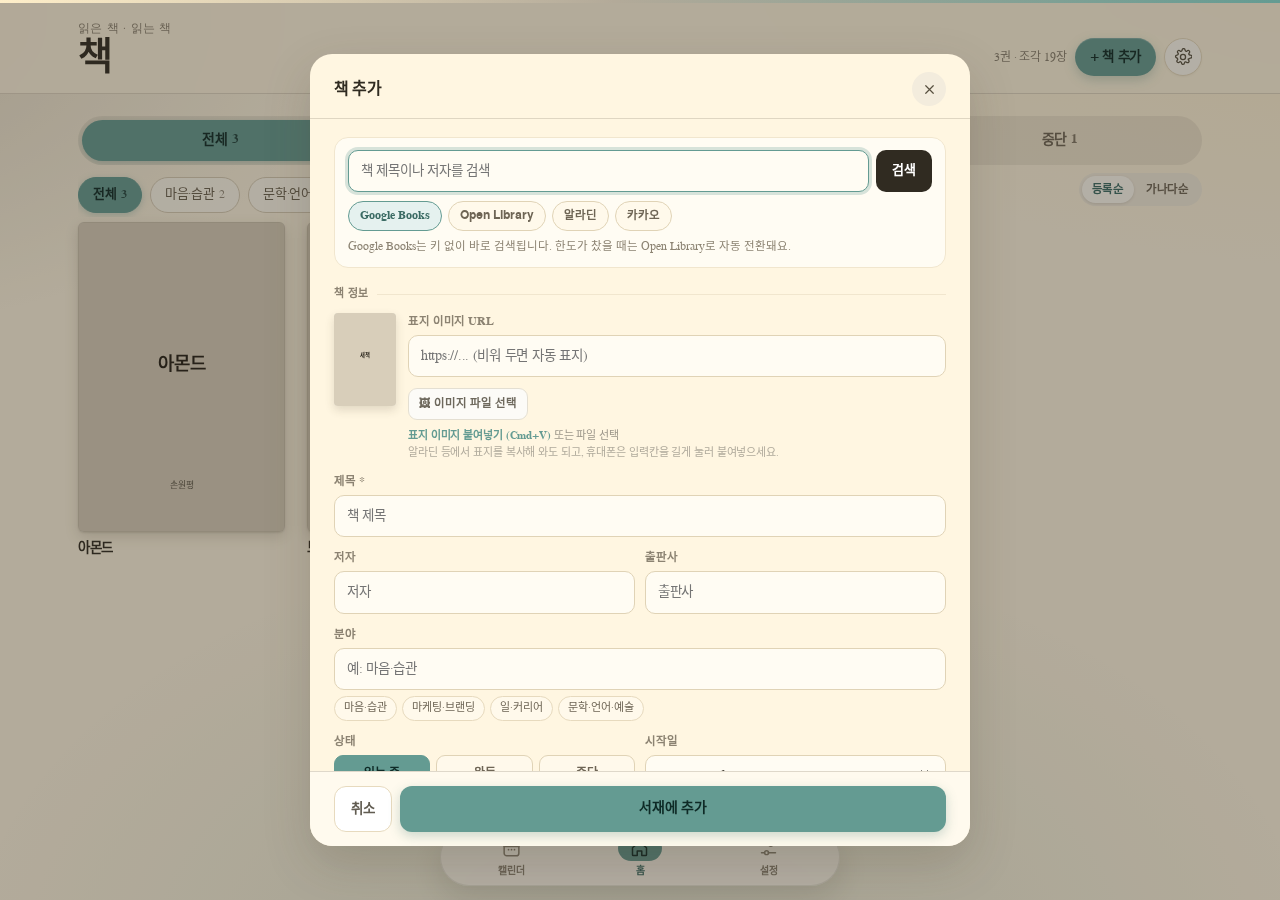
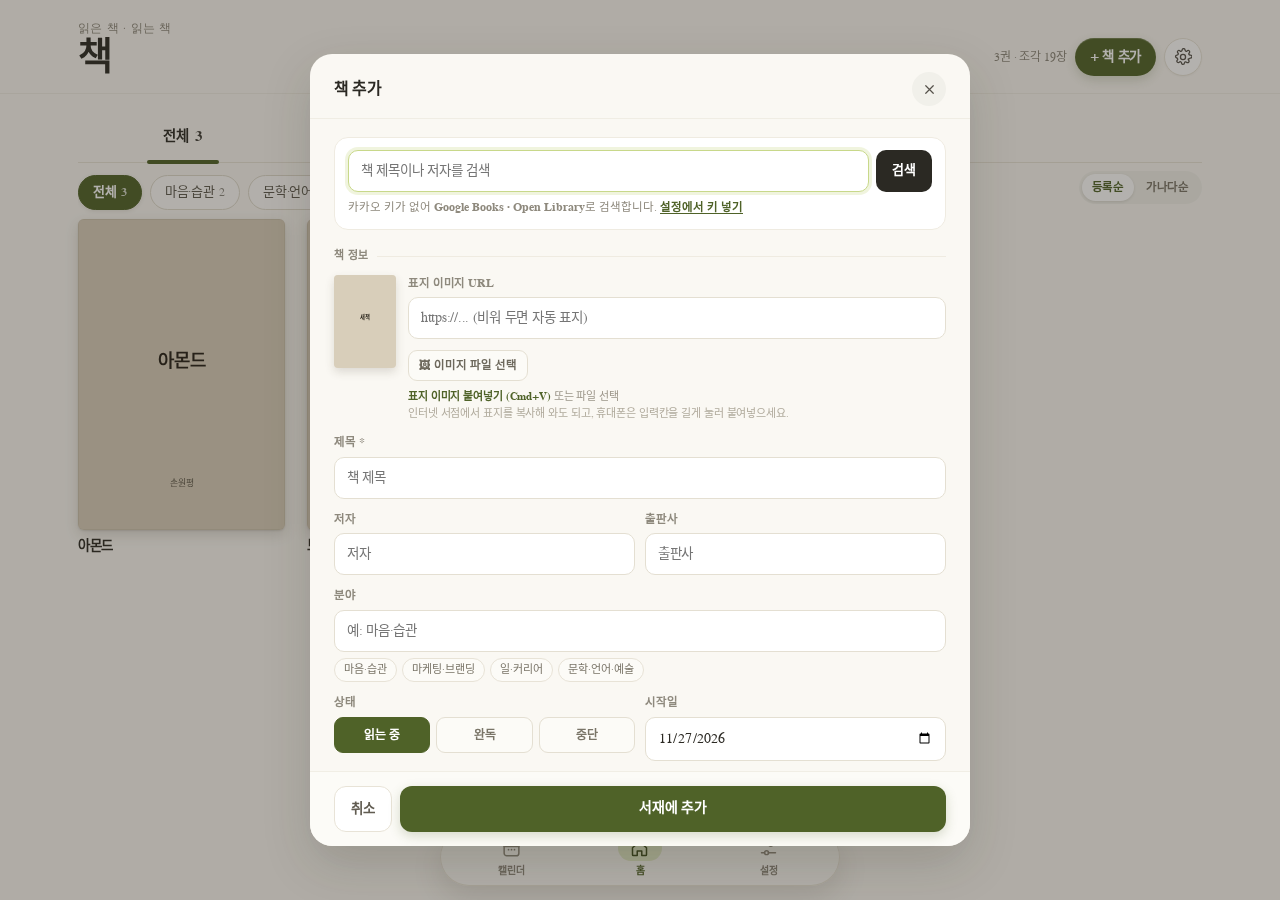
책 검색창 단일화(카카오 우선·Google/Open Library 폴백), 알라딘 키 입력 제거, 검색 결과 선택 시 분야 자동 분류

diff --git a/index.html b/index.html
@@ -471,9 +471,6 @@ h1.app-title{margin:0;font-size:33px;line-height:1.05;font-weight:800;letter-spa
 .search-row input:focus{border-color:var(--field-focus);background:var(--field-bg);box-shadow:0 0 0 3px var(--field-ring)}
 .search-btn{background:var(--ink);color:#fff;border-radius:10px;padding:0 16px;font-size:13px;font-weight:700;white-space:nowrap}
 .search-btn:hover{background:#3D392F}
-.src-chips{display:flex;gap:6px;margin-top:9px;flex-wrap:wrap}
-.src-chips button{border:1px solid var(--field-line);border-radius:999px;padding:5px 11px;font-size:11.5px;font-weight:600;color:var(--seg-ink);background:var(--panel)}
-.src-chips button.active{background:var(--olive-wash);border-color:var(--olive);color:var(--accent-text);font-weight:800}
 .hint{margin:7px 0 0;font-size:11.5px;color:var(--muted);line-height:1.55}
 .hint.warn{color:#B07A63}
 .hint .link-btn{color:var(--accent-text);font-weight:700;text-decoration:underline;text-underline-offset:2px}
@@ -846,13 +843,7 @@ h1.app-title{margin:0;font-size:33px;line-height:1.05;font-weight:800;letter-spa
           <input id="searchInput" type="search" placeholder="책 제목이나 저자를 검색" autocomplete="off" enterkeyhint="search">
           <button class="search-btn" id="btnSearch">검색</button>
         </div>
-        <div class="src-chips" id="sourceChips">
-          <button data-src="google" class="active">Google Books</button>
-          <button data-src="openlib">Open Library</button>
-          <button data-src="aladin">알라딘</button>
-          <button data-src="kakao">카카오</button>
-        </div>
-        <p class="hint" id="sourceHint">제목을 검색하면 표지·저자·출판사가 자동으로 채워집니다. (Google Books는 키 없이 바로 됩니다)</p>
+        <p class="hint" id="sourceHint">제목을 검색하면 표지·저자·출판사가 자동으로 채워집니다.</p>
         <div class="results" id="searchResults"></div>
       </div>
 
@@ -868,7 +859,7 @@ h1.app-title{margin:0;font-size:33px;line-height:1.05;font-weight:800;letter-spa
             <input id="fCoverFile" type="file" accept="image/*" hidden>
           </label>
           <p class="cover-paste-hint" id="coverPasteHint"><b>표지 이미지 붙여넣기 (Cmd+V)</b> 또는 파일 선택
-            <span>알라딘 등에서 표지를 복사해 와도 되고, 휴대폰은 입력칸을 길게 눌러 붙여넣으세요.</span></p>
+            <span>인터넷 서점에서 표지를 복사해 와도 되고, 휴대폰은 입력칸을 길게 눌러 붙여넣으세요.</span></p>
         </div>
       </div>
       <div class="field">
@@ -989,20 +980,14 @@ h1.app-title{margin:0;font-size:33px;line-height:1.05;font-weight:800;letter-spa
       </div>
 
       <div class="set-block">
-        <h3>도서 검색 API 키 <span style="font-weight:600;color:#ADA697;font-size:11px">(선택)</span></h3>
-        <p class="hint">키가 없어도 <b>Google Books · Open Library</b>로 바로 검색됩니다. 알라딘·카카오를 쓰려면 무료 키를 넣어 주세요. 키는 이 브라우저에만 저장됩니다.</p>
-        <label class="field-label" for="sAladin">알라딘 TTBKey</label>
-        <div class="key-row">
-          <input id="sAladin" type="text" placeholder="ttbkey를 붙여넣기" autocomplete="off" spellcheck="false">
-          <button id="btnSaveAladin">저장</button>
-        </div>
-        <p class="hint">알라딘 Open API에서 무료 발급 · JSONP 방식이라 서버 없이 브라우저에서 바로 호출됩니다.</p>
-        <label class="field-label" for="sKakao" style="margin-top:12px">카카오 REST API 키</label>
+        <h3>카카오 책 검색 API 키 <span style="font-weight:600;color:#ADA697;font-size:11px">(선택)</span></h3>
+        <p class="hint">키를 넣으면 카카오 책 검색에서 찾습니다. 없으면 <b>Google Books · Open Library</b>로 검색됩니다. 키는 이 브라우저에만 저장됩니다.</p>
+        <label class="field-label" for="sKakao">카카오 REST API 키</label>
         <div class="key-row">
           <input id="sKakao" type="text" placeholder="REST API 키" autocomplete="off" spellcheck="false">
           <button id="btnSaveKakao">저장</button>
         </div>
-        <p class="hint">developers.kakao.com → 내 애플리케이션 → REST API 키</p>
+        <p class="hint">developers.kakao.com → 앱 설정 > 일반 > 플랫폼 키</p>
       </div>
 
       <div class="set-block" id="syncBlock">
@@ -1572,7 +1557,7 @@ function loadDB(){
         var s=(d.settings&&typeof d.settings==='object')?d.settings:{};
         var del=sanitizeDeleted(d.deleted);
         return {version:2,books:books,deleted:del,fontUpdatedAt:Number(d.fontUpdatedAt)||0,settings:{
-          aladinKey:String(s.aladinKey||''),
+          aladinKey:String(s.aladinKey||''), /* 예전 저장본과의 호환용으로만 보관(설정 UI에서는 제거됨) */
           kakaoKey:String(s.kakaoKey||''),
           fontPreset:fixFontPreset(s.fontPreset),
           fontScope:s.fontScope==='note'?'note':'all',
@@ -1600,7 +1585,7 @@ function saveDB(opts){
 var db=loadDB();
 
 /* ---------------- ui state ---------------- */
-var ui={status:'all',cat:'all',mode:'edit',currentId:null,saving:null,src:'google',results:[],editingId:null,cover:'',formStatus:'reading',view:'home',calYear:0,calMonth:0};
+var ui={status:'all',cat:'all',mode:'edit',currentId:null,saving:null,results:[],editingId:null,cover:'',formStatus:'reading',view:'home',calYear:0,calMonth:0};
 ui.calYear=new Date().getFullYear();
 ui.calMonth=new Date().getMonth();
 
@@ -2642,15 +2627,8 @@ function setHint(html,warn){
   el.className='hint'+(warn?' warn':'');
 }
 function currentSourceHint(){
-  if(ui.src==='google') setHint('Google Books는 키 없이 바로 검색됩니다. 한도가 찼을 때는 Open Library로 자동 전환돼요.',false);
-  else if(ui.src==='openlib') setHint('Open Library(openlibrary.org)는 키 없이 무료로 검색됩니다.',false);
-  else if(ui.src==='aladin'){
-    if(db.settings.aladinKey) setHint('알라딘 Open API로 검색합니다. (JSONP · 브라우저 직접 호출)',false);
-    else setHint('알라딘 TTBKey가 아직 없어요. <button class="link-btn" data-open-settings="1" type="button">설정에서 키 넣기</button>',true);
-  }else if(ui.src==='kakao'){
-    if(db.settings.kakaoKey) setHint('카카오 책 검색 API로 검색합니다.',false);
-    else setHint('카카오 REST API 키가 아직 없어요. <button class="link-btn" data-open-settings="1" type="button">설정에서 키 넣기</button>',true);
-  }
+  if(db.settings.kakaoKey) setHint('카카오 책 검색으로 찾습니다.',false);
+  else setHint('카카오 키가 없어 <b>Google Books · Open Library</b>로 검색합니다. <button class="link-btn" data-open-settings="1" type="button">설정에서 키 넣기</button>',false);
 }
 function setResultsLoading(){
   $('#searchResults').innerHTML='<p class="hint" style="padding:8px 4px">검색 중…</p>';
@@ -2667,7 +2645,8 @@ function searchGoogle(q){
       img=img.replace(/^http:\/\//,'https://').replace(/&zoom=1/,'&zoom=2');
       return {
         title:v.title||'', subtitle:v.subtitle||'', author:(v.authors||[]).join(', '),
-        publisher:v.publisher||'', date:v.publishedDate||'', cover:img, source:'google'
+        publisher:v.publisher||'', date:v.publishedDate||'', cover:img, source:'google',
+        contents:v.description||'', categories:v.categories||[]
       };
     }).filter(function(x){return x.title});
   });
@@ -2681,12 +2660,12 @@ function searchKakao(q){
     return r.json();
   }).then(function(data){
     return (data.documents||[]).map(function(d){
-      return {title:d.title||'',author:(d.authors||[]).join(', '),publisher:d.publisher||'',date:d.datetime||'',cover:d.thumbnail||'',source:'kakao'};
+      return {title:d.title||'',author:(d.authors||[]).join(', '),publisher:d.publisher||'',date:d.datetime||'',cover:d.thumbnail||'',source:'kakao',contents:d.contents||'',categories:[]};
     }).filter(function(x){return x.title});
   });
 }
 function searchOpenLib(q){
-  var url='https://openlibrary.org/search.json?limit=12&fields=title,author_name,publisher,first_publish_year,cover_i,isbn&q='+encodeURIComponent(q);
+  var url='https://openlibrary.org/search.json?limit=12&fields=title,author_name,publisher,first_publish_year,cover_i,isbn,subject&q='+encodeURIComponent(q);
   return fetch(url).then(function(r){
     if(!r.ok) throw new Error('Open Library 응답 오류 ('+r.status+')');
     return r.json();
@@ -2699,39 +2678,11 @@ function searchOpenLib(q){
         publisher:pubs.slice(0,2).join(', '),
         date:d.first_publish_year?String(d.first_publish_year):'',
         cover:d.cover_i?('https://covers.openlibrary.org/b/id/'+d.cover_i+'-L.jpg'):'',
-        source:'openlib'
+        source:'openlib',
+        contents:'',
+        categories:(d.subject||[]).slice(0,10)
       };
     }).filter(function(x){return x.title});
-  });
-}
-function searchAladin(q){
-  return new Promise(function(resolve,reject){
-    var key=db.settings.aladinKey;
-    if(!key){ reject(new Error('알라딘 TTBKey가 없습니다.')); return; }
-    var cb='aladinCb_'+Date.now().toString(36)+Math.floor(Math.random()*1000);
-    var script=document.createElement('script');
-    var finished=false;
-    var timer=setTimeout(function(){ cleanup(); reject(new Error('알라딘 응답이 없어요. 키를 확인해 주세요.')); },12000);
-    function cleanup(){
-      finished=true;
-      clearTimeout(timer);
-      try{ delete window[cb]; }catch(e){ window[cb]=undefined; }
-      if(script.parentNode) script.parentNode.removeChild(script);
-    }
-    window[cb]=function(data){
-      if(finished) return;
-      cleanup();
-      var items=(data&&data.item)||[];
-      resolve(items.map(function(it){
-        var cover=String(it.cover||'').replace(/^http:\/\//,'https://').replace(/coversum/,'cover500');
-        return {title:it.title||'',author:it.author||'',publisher:it.publisher||'',date:it.pubDate||'',cover:cover,source:'aladin'};
-      }).filter(function(x){return x.title}));
-    };
-    script.onerror=function(){ cleanup(); reject(new Error('알라딘 API를 불러오지 못했어요.')); };
-    script.src='https://www.aladin.co.kr/ttb/api/ItemSearch.aspx?ttbkey='+encodeURIComponent(key)
-      +'&Query='+encodeURIComponent(q)+'&QueryType=Keyword&MaxResults=12&start=1&SearchTarget=Book'
-      +'&output=JS&Version=20131101&callback='+cb;
-    document.head.appendChild(script);
   });
 }
 function renderResults(items){
@@ -2751,31 +2702,46 @@ function renderResults(items){
 function searchErrorText(msg){
   return '<p class="hint warn" style="padding:8px 4px">'+esc(msg)+'<br>네트워크를 확인하거나 아래에 직접 입력해 주세요.</p>';
 }
+/* 카카오 키가 없거나 카카오 검색이 실패하면 Google Books → Open Library 순서로 찾습니다. */
+function fallbackSearch(q,why){
+  var prefix=why?why+' ':'';
+  searchGoogle(q).then(function(items){
+    renderResults(items);
+    if(items.length){
+      if(why) setHint(prefix+'Google Books로 대신 검색했어요.',true);
+      return;
+    }
+    setHint(prefix+'Google Books에서 결과가 없어 Open Library로 다시 찾았어요.',true);
+    return searchOpenLib(q).then(function(items2){
+      renderResults(items2);
+      if(!items2.length) setHint(prefix+'검색 결과가 없어요. 다른 검색어를 쓰거나 아래에 직접 입력해 주세요.',true);
+    });
+  }).catch(function(err){
+    var gwhy=/429/.test(String(err&&err.message||''))?'Google Books의 무료 검색 한도가 찼어요(429).':'Google Books에 연결하지 못했어요.';
+    setHint(prefix+gwhy+' Open Library로 대신 검색했어요.',true);
+    searchOpenLib(q).then(function(items){
+      renderResults(items);
+      if(!items.length) setHint(prefix+gwhy+' Open Library에서도 결과를 찾지 못했어요. 직접 입력해 주세요.',true);
+    }).catch(function(){
+      $('#searchResults').innerHTML=searchErrorText(prefix+gwhy+' Open Library도 응답하지 않았어요.');
+    });
+  });
+}
 function runSearch(){
   var q=$('#searchInput').value.trim();
   if(!q){ toast('검색어를 입력해 주세요.'); $('#searchInput').focus(); return; }
-  if(ui.src==='aladin' && !db.settings.aladinKey){ currentSourceHint(); toast('알라딘 키를 먼저 넣어 주세요.'); return; }
-  if(ui.src==='kakao' && !db.settings.kakaoKey){ currentSourceHint(); toast('카카오 키를 먼저 넣어 주세요.'); return; }
   setResultsLoading();
-  var src=ui.src;
-  var p = src==='google'?searchGoogle(q):src==='kakao'?searchKakao(q):src==='aladin'?searchAladin(q):searchOpenLib(q);
-  p.then(function(items){
-    renderResults(items);
-  }).catch(function(err){
-    var msg=String(err&&err.message||'');
-    if(src==='google'){
-      var why=/429/.test(msg)?'Google Books의 무료 검색 한도가 찼어요(429).':'Google Books에 연결하지 못했어요.';
-      setHint(why+' Open Library로 대신 검색했어요.',true);
-      searchOpenLib(q).then(function(items){
-        renderResults(items);
-        if(!items.length) setHint(why+' Open Library에서도 결과를 찾지 못했어요. 직접 입력해 주세요.',true);
-      }).catch(function(e2){
-        $('#searchResults').innerHTML=searchErrorText(why+' Open Library도 응답하지 않았어요.');
-      });
-      return;
-    }
-    $('#searchResults').innerHTML=searchErrorText(msg||'검색에 실패했어요.');
-  });
+  if(db.settings.kakaoKey){
+    searchKakao(q).then(function(items){
+      renderResults(items);
+    }).catch(function(err){
+      var msg=String(err&&err.message||'');
+      var why=/401|403/.test(msg)?'카카오 키를 확인해 주세요('+msg+').':'카카오 검색에 연결하지 못했어요.';
+      fallbackSearch(q,why);
+    });
+  }else{
+    fallbackSearch(q,'');
+  }
 }
 function pickResult(i){
   var r=ui.results[i];
@@ -2783,19 +2749,83 @@ function pickResult(i){
   $('#fTitle').value=r.title||'';
   if(r.author) $('#fAuthor').value=r.author;
   if(r.publisher) $('#fPublisher').value=r.publisher;
-  if(!$('#fCat').value.trim()) $('#fCat').value=guessCategory(r.title||'');
+  var guessed='';
+  if(!$('#fCat').value.trim()){
+    guessed=autoCategory(r);
+    if(guessed) $('#fCat').value=guessed;
+  }
   if(r.cover){ ui.cover=r.cover; $('#fCoverUrl').value=r.cover; }
   updateCoverPreview();
   $$('#searchResults .result').forEach(function(el,j){ el.classList.toggle('selected',j===i) });
-  toast('책 정보를 채웠어요. 필요하면 고쳐서 저장하세요.');
+  toast(guessed?'책 정보를 채웠어요. 분야는 ‘'+guessed+'’로 채워 두었으니 필요하면 고쳐 주세요.':'책 정보를 채웠어요. 필요하면 고쳐서 저장하세요.');
+}
+/* ---- 분야 자동 분류 ----
+   검색 결과의 제목·소개(contents/description)·출판사·API 분야(categories)를 보고
+   앱에서 쓰는 분야 중 가장 알맞은 곳을 고른다. 매칭이 없으면 빈칸으로 둔다. */
+var CAT_KEYWORDS={
+  '마음·습관':['마음','심리','심리학','습관','행복','불안','감정','명상','자존감','위로','힐링','치유','관계','상담','우울','스트레스','마인드풀니스','정신건강','기질','애착','자기돌봄'],
+  '마케팅·브랜딩':['마케팅','브랜드','브랜딩','광고','카피','카피라이팅','소비자','고객','시장','판매','콘텐츠','인스타그램','퍼널','전환율'],
+  '일·커리어':['커리어','직장','면접','리더십','리더','회사','생산성','업무','일의','조직','경영','이직','자기계발','시간관리','협업','회의','프로젝트','재테크','투자','경제','창업','부업','노트법'],
+  '문학·언어·예술':['소설','시집','시인','문학','에세이','산문','언어','예술','그림','미술','음악','영화','드라마','디자인','건축','사진','글쓰기','번역','고전','판타지','추리','만화','웹툰','시나리오']
+};
+var CAT_STRONG={
+  '마음·습관':['심리학','심리','습관','명상','자존감','정신건강','마인드풀니스','상담','힐링','불안','우울','애착'],
+  '마케팅·브랜딩':['마케팅','브랜딩','브랜드','광고','카피라이팅','소비자심리','퍼널'],
+  '일·커리어':['커리어','리더십','생산성','자기계발','재테크','이직','면접','경영','창업','업무','투자'],
+  '문학·언어·예술':['소설','시집','에세이','문학','예술','미술','음악','영화','디자인','번역','글쓰기','판타지','추리소설','만화']
+};
+var CAT_EN_MAP=[
+  [/marketing|advertis|sales promotion|brand/i,'마케팅·브랜딩'],
+  [/business|economics|management|leadership|career|office|productivity|entrepreneur|invest|finance/i,'일·커리어'],
+  [/psychology|self-help|personal growth|body, mind|mind & spirit|family & relationships|emotion|happiness|habit|meditation/i,'마음·습관'],
+  [/fiction|poetry|literary|drama|comics|graphic novel|\bart\b|\barts\b|music|language arts|photograph|design|architecture|performing arts/i,'문학·언어·예술']
+];
+function categoryCandidates(){
+  var set={}, list=[];
+  function add(c){
+    c=String(c||'').trim();
+    if(c && !set[c]){ set[c]=1; list.push(c); }
+  }
+  DEFAULT_CATS.forEach(add);
+  (db.books||[]).forEach(function(b){ add(b.category); });
+  Object.keys((db.settings&&db.settings.categoryColors)||{}).forEach(add);
+  return list;
+}
+function catKeywordHits(hay,kws){
+  var n=0;
+  (kws||[]).forEach(function(k){ if(k && hay.indexOf(k)>-1) n++; });
+  return n;
+}
+function autoCategory(r){
+  if(!r) return '';
+  var title=String(r.title||'').toLowerCase();
+  var body=(String(r.contents||r.description||'')+' '+String(r.publisher||'')).toLowerCase();
+  var rawCats=[].concat(r.categories||[], r.subjects||[]).map(function(c){return String(c||'')}).join(' ').toLowerCase();
+  var hay=title+' '+body+' '+rawCats;
+  var cands=categoryCandidates(), scores={};
+  cands.forEach(function(c){ scores[c]=0; });
+  if(rawCats){
+    CAT_EN_MAP.forEach(function(rule){
+      if(rule[0].test(rawCats) && scores.hasOwnProperty(rule[1])) scores[rule[1]]+=6;
+    });
+  }
+  cands.forEach(function(c){
+    var kws=CAT_KEYWORDS[c], strong=CAT_STRONG[c];
+    if(kws){
+      var titleHits=catKeywordHits(title,kws);
+      var strongHits=catKeywordHits(body,strong);
+      var bodyHits=catKeywordHits(body,kws)-strongHits;
+      scores[c]+=titleHits*3 + Math.min(strongHits,2)*3 + Math.min(bodyHits,2);
+    }else if(c && hay.indexOf(c.toLowerCase())>-1){
+      scores[c]+=4; /* 사용자가 만든 분야는 이름이 본문에 나오면 가점 */
+    }
+  });
+  var best='', bestScore=2; /* 2점 이하는 우연한 단어 하나 수준이라 비워 둔다 */
+  cands.forEach(function(c){ if(scores[c]>bestScore){ best=c; bestScore=scores[c]; } });
+  return best;
 }
 function guessCategory(title){
-  var t=String(title||'');
-  if(/마케팅|브랜드|브랜딩|광고|카피/.test(t)) return '마케팅·브랜딩';
-  if(/습관|마음|심리|집중|불안|행복|감정|명상/.test(t)) return '마음·습관';
-  if(/커리어|일의|직장|면접|리더|회사|생산성/.test(t)) return '일·커리어';
-  if(/소설|시집|문학|언어|예술|그림|음악/.test(t)) return '문학·언어·예술';
-  return '';
+  return autoCategory({title:String(title||'')});
 }
 
 /* ---------------- export / import ---------------- */
@@ -3181,14 +3211,6 @@ $('#btnDelete').addEventListener('click',function(){
 /* add modal */
 $('#searchInput').addEventListener('keydown',function(e){ if(e.key==='Enter'){ e.preventDefault(); runSearch(); } });
 $('#btnSearch').addEventListener('click',runSearch);
-$('#sourceChips').addEventListener('click',function(e){
-  var btn=e.target.closest('button[data-src]');
-  if(!btn) return;
-  ui.src=btn.dataset.src;
-  $$('#sourceChips button').forEach(function(b){ b.classList.toggle('active',b===btn) });
-  currentSourceHint();
-  $('#searchResults').innerHTML='';
-});
 $('#searchResults').addEventListener('click',function(e){
   var row=e.target.closest('.result');
   if(!row) return;
@@ -3231,7 +3253,6 @@ setMode('edit');
 
 /* settings */
 function fillSettings(){
-  $('#sAladin').value=db.settings.aladinKey||'';
   $('#sKakao').value=db.settings.kakaoKey||'';
   var frags=db.books.reduce(function(n,b){return n+fragmentCount(b.note)},0);
   $('#setStats').textContent=db.books.length+'권 · 조각 '+frags+'장 · 이 브라우저에 저장됨';
@@ -3242,12 +3263,6 @@ function fillSettings(){
   if($('#syncToken')) $('#syncToken').value=syncCfg.token||'';
   renderSyncUI();
 }
-$('#btnSaveAladin').addEventListener('click',function(){
-  db.settings.aladinKey=$('#sAladin').value.trim();
-  saveDB();
-  toast(db.settings.aladinKey?'알라딘 키를 저장했어요.':'알라딘 키를 지웠어요.');
-  if($('#addModal').hidden===false) currentSourceHint();
-});
 $('#btnSaveKakao').addEventListener('click',function(){
   db.settings.kakaoKey=$('#sKakao').value.trim();
   saveDB();

diff --git a/README.md b/README.md
@@ -42,18 +42,19 @@
 
 ## 책 추가
 
-`+ 책 추가` → 제목을 검색하면 표지·저자·출판사가 자동으로 채워집니다.
+`+ 책 추가` → 제목을 검색하면 표지·저자·출판사와 함께 **분야까지 자동으로** 채워집니다. 검색 소스를 고르는 단계 없이 검색창 하나만 있습니다.
+
+분야는 결과의 제목·소개·출판사·API 분야를 보고 `마음·습관`, `마케팅·브랜딩`, `일·커리어`, `문학·언어·예술`, 그리고 서재에 이미 만든 분야 중 가장 알맞은 곳을 고릅니다(Google Books의 영문 분야도 한국어 분야로 옮겨 매칭). 마땅한 곳이 없으면 비워 두고, 직접 입력한 분야는 덮어쓰지 않습니다.
 
 | 검색 소스 | 키 필요 | 비고 |
 |---|---|---|
-| Google Books | 없음 | 기본. 무료 한도가 찼을 때(429)는 자동으로 Open Library로 넘어갑니다 |
+| 카카오 책 검색 | REST API 키 | 설정에 키가 있으면 항상 이것으로 먼저 검색합니다 |
+| Google Books | 없음 | 키가 없거나 카카오 검색이 실패할 때. 무료 한도가 찼을 때(429)는 자동으로 Open Library로 넘어갑니다 |
 | Open Library | 없음 | openlibrary.org, 키 없이 무료 |
-| 알라딘 | TTBKey | 알라딘 Open API에서 무료 발급. JSONP 방식이라 서버 없이 브라우저에서 바로 호출됩니다 |
-| 카카오 | REST API 키 | developers.kakao.com → 내 애플리케이션 → REST API 키 |
 
-키는 ⚙ **설정 및 백업**에서 넣고, 이 브라우저에만 저장됩니다. 검색이 안 되거나 다른 표지를 쓰고 싶으면 **직접 입력**하고, 표지 이미지는 URL을 붙여넣거나 파일로 올리면 됩니다(자동으로 줄여서 저장).
+키는 ⚙ **설정 및 백업**에서 넣고, 이 브라우저에만 저장됩니다(developers.kakao.com → 앱 설정 > 일반 > 플랫폼 키). 검색이 안 되거나 다른 표지를 쓰고 싶으면 **직접 입력**하고, 표지 이미지는 URL을 붙여넣거나 파일로 올리면 됩니다(자동으로 줄여서 저장).
 
-**표지 붙여넣기**: 알라딘 같은 사이트에서 표지 이미지를 복사해 `책 추가`/`정보 수정` 창에서 `Cmd+V`(휴대폰은 입력칸을 길게 눌러 붙여넣기)만 하면 표지로 바로 들어갑니다. 이미지 파일이면 가로 480px으로 줄여 넣고, 이미지 주소(`https://...jpg`)를 붙여넣으면 URL 칸에 채워집니다.
+**표지 붙여넣기**: 인터넷 서점 같은 사이트에서 표지 이미지를 복사해 `책 추가`/`정보 수정` 창에서 `Cmd+V`(휴대폰은 입력칸을 길게 눌러 붙여넣기)만 하면 표지로 바로 들어갑니다. 이미지 파일이면 가로 480px으로 줄여 넣고, 이미지 주소(`https://...jpg`)를 붙여넣으면 URL 칸에 채워집니다.
 
 ## 독서 노트 (마크다운)
 
